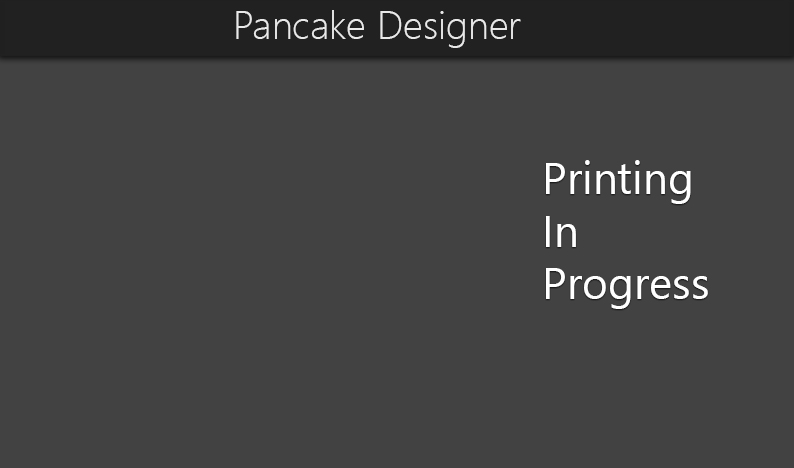
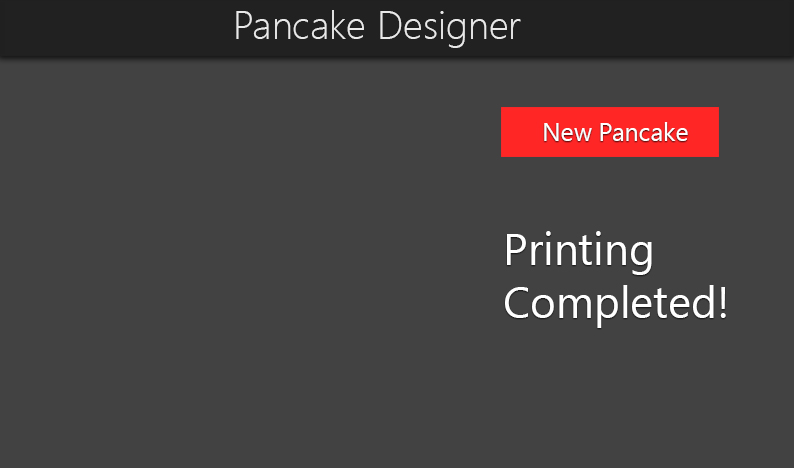
Cient

Changed region(s): [[0.6045, 0.2094, 0.9068, 0.4487], [0.6348, 0.4786, 0.937, 0.688]]

diff --git a/Client/comm/ProcessAndSend.py b/Client/comm/ProcessAndSend.py
@@ -2,10 +2,14 @@ import sys
 import serial
 import time
 
-data = sys.argv[1];
-#data = "231|261|1,232|261|1,233|261|1,234|261|1,238|266|1,238|267|1,239|269|1,240|270|1,241|270|1,244|273|1,245|274|1,245|275|1,247|275|1,247|276|1,248|276|1,249|276|1,250|278|1,251|278|1,253|278|1,254|279|1,257|281|1,259|281|1,261|281|1,262|282|1,263|282|1,264|283|1,267|283|0,268|284|0,269|284|0,271|284|0,272|284|0,275|285|0,277|285|0,278|286|0,278|287|0,280|287|0,281|288|0,283|288|0,284|288|0,284|289|0,286|290|0,287|290|0,291|290|0,292|291|0,293|291|0,293|292|0,277|315|1,283|315|1,284|315|1,285|315|1,286|315|0,287|314|0,290|314|0,291|314|0,292|313|0,293|313|0,294|313|0,295|313|0,297|312|0,298|312|0,299|312|0,300|312|0,302|311|0,304|310|0,305|310|0,306|310|0,307|310|0,308|310|0,310|310|0,311|310|0,SWITCH,231|261|1,232|261|1,233|261|1,234|261|1,"
+file = open('data.txt', 'r')
+data = file.read()
+file.close();
+
+#data = "30|26|1,30|27|1,30|27|1,30|28|1,30|28|1,30|29|1,30|29|1,30|30|1,30|30|1,30|31|1,30|31|1,30|32|1,30|32|1,30|33|1,30|34|1,30|34|1,30|34|1,30|34|1,30|35|1,30|35|1,30|36|1,30|37|1,30|37|1,30|37|1,30|38|1,30|38|1,30|38|1,30|38|1,30|39|1,30|40|1,30|40|1,30|41|0,30|41|0,30|42|0,30|42|0,30|42|0,30|42|0,30|43|0,30|43|0,31|44|0,31|45|0,31|45|0,31|46|0,31|46|0,31|46|0,31|47|0,31|47|0,31|47|0,31|47|0,31|48|0,31|48|0,68|26|1,68|27|1,68|27|1,68|28|1,68|28|1,68|29|1,68|29|1,68|29|1,68|30|1,68|30|1,68|30|1,68|31|1,68|31|1,68|32|1,69|33|1,69|34|1,69|35|1,69|36|1,69|36|1,69|37|1,69|37|1,69|38|1,68|39|1,68|39|1,68|40|1,68|41|1,68|41|1,68|41|1,68|42|1,68|42|0,68|42|0,68|42|0,68|43|0,68|43|0,68|43|0,68|44|0,68|44|0,68|44|0,68|45|0,68|45|0,68|45|0,68|46|0,68|46|0,68|46|0,68|47|0,68|47|0,68|47|0,68|47|0,68|48|0,25|61|1,25|61|1,25|61|1,25|62|1,25|62|1,25|62|1,25|63|1,25|63|1,25|63|1,26|64|1,26|65|1,26|65|1,27|65|1,27|66|1,27|67|1,28|68|1,28|68|1,29|68|1,29|69|1,30|69|1,30|69|1,32|70|1,33|71|1,33|71|1,34|71|1,34|72|1,34|72|1,35|72|1,35|72|1,36|72|1,36|72|1,36|73|1,36|73|1,36|73|1,37|73|1,38|74|1,40|74|1,42|75|1,44|75|1,45|75|1,45|75|1,46|76|1,46|76|1,48|76|1,48|76|1,49|76|1,49|76|1,49|76|1,50|77|1,51|77|1,52|77|1,53|77|1,54|77|1,55|78|1,56|78|1,56|78|1,57|78|1,58|78|1,59|78|1,60|78|1,60|78|1,60|78|1,61|78|1,61|78|1,62|78|1,64|78|1,65|78|1,65|77|1,66|77|1,67|77|1,69|77|1,69|76|1,69|76|1,70|76|1,70|76|1,71|75|1,71|75|0,71|75|0,72|75|0,72|74|0,72|74|0,73|73|0,74|72|0,74|71|0,75|71|0,75|71|0,76|69|0,78|67|0,78|66|0,78|66|0,78|66|0,78|65|0,79|64|0,79|64|0,79|64|0,79|63|0,SWITCH,99|10|1,99|13|1,99|15|1,99|16|1,99|18|1,99|18|1,98|20|1,98|20|1,98|21|1,98|22|1,98|23|1,98|25|1,98|27|1,98|29|1,98|30|1,98|31|1,98|31|1,98|31|1,98|32|1,98|33|1,98|34|1,98|36|1,98|36|1,98|37|1,98|38|1,98|39|1,98|40|1,99|41|1,99|42|1,99|43|1,99|45|1,99|47|1,99|49|1,99|54|1,99|55|1,99|56|1,99|56|1,99|57|1,99|61|1,99|63|1,99|64|1,99|65|1,99|66|1,99|66|1,99|66|1,99|67|1,99|68|1,99|69|1,99|70|1,99|74|1,99|75|1,99|76|1,99|76|1,99|77|1,98|78|1,97|81|1,97|82|1,97|82|1,97|82|1,96|82|1,96|83|1,95|83|1,95|83|1,95|83|1,94|83|1,94|83|1,93|83|1,93|83|1,92|83|1,91|82|1,90|82|1,86|80|1,85|79|1,84|78|1,83|77|1,82|76|1,82|75|1,81|75|1,81|74|1,81|74|1,80|73|1,80|70|1,80|65|1,79|63|1,79|61|1,79|59|1,79|58|1,79|57|1,79|55|1,79|55|1,79|54|1,79|53|1,78|52|1,78|52|1,78|51|1,78|51|1,77|48|1,77|47|1,77|44|1,77|43|1,77|41|1,77|40|1,77|39|1,77|38|1,77|36|1,77|35|1,77|33|1,77|32|1,77|30|1,76|30|1,75|28|1,75|27|1,74|25|1,74|23|1,74|22|1,73|20|1,73|19|1,73|18|1,73|15|1,73|13|1,73|12|1,73|11|1,72|11|1,72|11|1,72|11|1,70|10|1,64|8|1,63|7|1,63|7|1,63|7|1,62|7|1,62|7|1,60|7|1,60|7|1,59|8|1,58|8|1,58|8|1,56|9|1,56|9|1,56|10|1,55|10|1,55|10|1,55|11|1,54|12|1,53|12|1,53|13|1,52|14|1,52|15|1,52|16|1,52|17|1,51|18|1,51|19|1,50|21|1,49|23|1,48|25|1,48|25|1,48|25|1,47|26|1,47|28|1,44|33|1,43|34|1,42|36|1,42|37|1,42|38|1,41|39|1,41|40|1,41|42|1,40|43|1,40|44|1,39|46|1,39|46|1,39|49|1,39|50|1,39|51|1,39|52|1,39|53|1,38|53|1,38|53|1,38|53|1,38|54|1,38|56|1,37|60|1,37|62|1,37|63|1,37|64|1,36|66|1,36|66|1,36|68|1,35|69|1,35|71|1,34|73|1,34|74|1,34|75|1,34|75|1,34|75|1,33|75|1,32|76|1,30|76|1,28|76|1,26|76|1,24|76|1,23|75|1,22|74|1,19|72|1,17|70|1,14|67|1,13|65|1,13|62|1,12|50|0,12|46|0,12|45|0,11|44|0,11|43|0,11|42|0,12|39|0,12|38|0,12|34|0,12|32|0,13|31|0,13|30|0,13|30|0,13|30|0,13|29|0,13|28|0,15|26|0,17|23|0,17|23|0,19|22|0,30|26|1,30|27|1,30|27|1,30|28|1,30|28|1,30|29|1,30|29|1,30|30|1,30|30|1,30|31|1,30|31|1,30|32|1,30|32|1,30|33|1,30|34|1,30|34|1,30|34|1,30|34|1,30|35|1,30|35|1,30|36|1,30|37|1,30|37|1,30|37|1,30|38|1,30|38|1,30|38|1,30|38|1,30|39|1,30|40|1,30|40|1,30|41|0,30|41|0,30|42|0,30|42|0,30|42|0,30|42|0,30|43|0,30|43|0,31|44|0,31|45|0,31|45|0,31|46|0,31|46|0,31|46|0,31|47|0,31|47|0,31|47|0,31|47|0,31|48|0,31|48|0,68|26|1,68|27|1,68|27|1,68|28|1,68|28|1,68|29|1,68|29|1,68|29|1,68|30|1,68|30|1,68|30|1,68|31|1,68|31|1,68|32|1,69|33|1,69|34|1,69|35|1,69|36|1,69|36|1,69|37|1,69|37|1,69|38|1,68|39|1,68|39|1,68|40|1,68|41|1,68|41|1,68|41|1,68|42|1,68|42|0,68|42|0,68|42|0,68|43|0,68|43|0,68|43|0,68|44|0,68|44|0,68|44|0,68|45|0,68|45|0,68|45|0,68|46|0,68|46|0,68|46|0,68|47|0,68|47|0,68|47|0,68|47|0,68|48|0,25|61|1,25|61|1,25|61|1,25|62|1,25|62|1,25|62|1,25|63|1,25|63|1,25|63|1,26|64|1,26|65|1,26|65|1,27|65|1,27|66|1,27|67|1,28|68|1,28|68|1,29|68|1,29|69|1,30|69|1,30|69|1,32|70|1,33|71|1,33|71|1,34|71|1,34|72|1,34|72|1,35|72|1,35|72|1,36|72|1,36|72|1,36|73|1,36|73|1,36|73|1,37|73|1,38|74|1,40|74|1,42|75|1,44|75|1,45|75|1,45|75|1,46|76|1,46|76|1,48|76|1,48|76|1,49|76|1,49|76|1,49|76|1,50|77|1,51|77|1,52|77|1,53|77|1,54|77|1,55|78|1,56|78|1,56|78|1,57|78|1,58|78|1,59|78|1,60|78|1,60|78|1,60|78|1,61|78|1,61|78|1,62|78|1,64|78|1,65|78|1,65|77|1,66|77|1,67|77|1,69|77|1,69|76|1,69|76|1,70|76|1,70|76|1,71|75|1,71|75|0,71|75|0,72|75|0,72|74|0,72|74|0,73|73|0,74|72|0,74|71|0,75|71|0,75|71|0,76|69|0,78|67|0,78|66|0,78|66|0,78|66|0,78|65|0,79|64|0,79|64|0,79|64|0,79|63|0,SWITCH,99|10|1,99|13|1,99|15|1,99|16|1,99|18|1,99|18|1,98|20|1,98|20|1,98|21|1,98|22|1,98|23|1,98|25|1,98|27|1,98|29|1,98|30|1,98|31|1,98|31|1,98|31|1,98|32|1,98|33|1,98|34|1,98|36|1,98|36|1,98|37|1,98|38|1,98|39|1,98|40|1,99|41|1,99|42|1,99|43|1,99|45|1,99|47|1,99|49|1,99|54|1,99|55|1,99|56|1,99|56|1,99|57|1,99|61|1,99|63|1,99|64|1,99|65|1,99|66|1,99|66|1,99|66|1,99|67|1,99|68|1,99|69|1,99|70|1,99|74|1,99|75|1,99|76|1,99|76|1,99|77|1,98|78|1,97|81|1,97|82|1,97|82|1,97|82|1,96|82|1,96|83|1,95|83|1,95|83|1,95|83|1,94|83|1,94|83|1,93|83|1,93|83|1,92|83|1,91|82|1,90|82|1,86|80|1,85|79|1,84|78|1,83|77|1,82|76|1,82|75|1,81|75|1,81|74|1,81|74|1,80|73|1,80|70|1,80|65|1,79|63|1,79|61|1,79|59|1,79|58|1,79|57|1,79|55|1,79|55|1,79|54|1,79|53|1,78|52|1,78|52|1,78|51|1,78|51|1,77|48|1,77|47|1,77|44|1,77|43|1,77|41|1,77|40|1,77|39|1,77|38|1,77|36|1,77|35|1,77|33|1,77|32|1,77|30|1,76|30|1,75|28|1,75|27|1,74|25|1,74|23|1,74|22|1,73|20|1,73|19|1,73|18|1,73|15|1,73|13|1,73|12|1,73|11|1,72|11|1,72|11|1,72|11|1,70|10|1,64|8|1,63|7|1,63|7|1,63|7|1,62|7|1,62|7|1,60|7|1,60|7|1,59|8|1,58|8|1,58|8|1,56|9|1,56|9|1,56|10|1,55|10|1,55|10|1,55|11|1,54|12|1,53|12|1,53|13|1,52|14|1,52|15|1,52|16|1,52|17|1,51|18|1,51|19|1,50|21|1,49|23|1,48|25|1,48|25|1,48|25|1,47|26|1,47|28|1,44|33|1,43|34|1,42|36|1,42|37|1,42|38|1,41|39|1,41|40|1,41|42|1,40|43|1,40|44|1,39|46|1,39|46|1,39|49|1,39|50|1,39|51|1,39|52|1,39|53|1,38|53|1,38|53|1,38|53|1,38|54|1,38|56|1,37|60|1,37|62|1,37|63|1,37|64|1,36|66|1,36|66|1,36|68|1,35|69|1,35|71|1,34|73|1,34|74|1,34|75|1,34|75|1,34|75|1,33|75|1,32|76|1,30|76|1,28|76|1,26|76|1,24|76|1,23|75|1,22|74|1,19|72|1,17|70|1,14|67|1,13|65|1,13|62|1,12|50|0,12|46|0,12|45|0,11|44|0,11|43|0,11|42|0,12|39|0,12|38|0,12|34|0,12|32|0,13|31|0,13|30|0,13|30|0,13|30|0,13|29|0,13|28|0,15|26|0,17|23|0,17|23|0,19|22|0,"
+
 print("Opening serial connection with the Arduino")
-ser = serial.Serial('COM4', 9600, timeout=0)
+ser = serial.Serial('COM3', 9600, timeout=0)
 time.sleep(2)
 print("Now printing the first layer. Please wait...")
 splitData = data.split(",")
@@ -13,11 +17,13 @@ print(splitData)
 for item in splitData:
     ser.write(item)
     print(item)
-    time.sleep(0.5)
+    time.sleep(0.1)
     if item == "SWITCH":
         print("PAUSING FOR 30 SECONDS")
+        ser.write("0|0|0");
         time.sleep(30)
 
+ser.write("0|0|0");
 file = open("finish.f", "w")
 file.write("hello world in the new file\n")
 file.close()

diff --git a/Client/PancakePrinter.java b/Client/PancakePrinter.java
@@ -6,6 +6,7 @@ import java.awt.Cursor.*;
 import java.awt.image.*; 
 import java.util.*;
 import java.io.File;
+import java.io.PrintWriter;
 
 public class PancakePrinter implements ActionListener, MouseListener, MouseMotionListener{
  //////////////////////////////////
@@ -67,15 +68,22 @@ public class PancakePrinter implements ActionListener, MouseListener, MouseMotio
        for (String s : drawDataLight){
          dataString += s + ",";
        }
-       System.out.println(dataString);
+       dataString = dataString.substring(0, dataString.length() - 1);
+       //System.out.println(dataString);
+       mainPanel.printing = true;
+       mainPanel.plotX = -100;
+       mainPanel.plotY = -100;  // Move position off screen then reset
+       mainPanel.repaint();
+       mainPanel.repaint();
        try{
-         Process p = Runtime.getRuntime().exec("cmd.exe /c start python comm/ProcessAndSend.py " + dataString); // Use Python to comm
+         PrintWriter writer = new PrintWriter("data.txt", "UTF-8");
+         writer.println(dataString);
+         writer.close();
+         Process p = Runtime.getRuntime().exec("cmd.exe /c start python comm/ProcessAndSend.py "); // Use Python to comm
          System.out.println(dataString);
        }catch (Exception e){
          JOptionPane.showMessageDialog(mainWindow, "Error.");
        }
-       mainPanel.printing = true;
-       mainPanel.repaint();
        File varTmpDir = new File("finish.f");  // Check if its done by looking for a file. Then delete.
        boolean exists = varTmpDir.exists();
        while (exists == false){
@@ -99,9 +107,9 @@ public class PancakePrinter implements ActionListener, MouseListener, MouseMotio
      mainPanel.plotY = evt.getY();
      mainPanel.repaint(); // refresh the screen after plotting new points
      if (currentShade == 2){
-       drawDataDark.add((evt.getX() + "|" + evt.getY() + "|1"));
+       drawDataDark.add(((evt.getX()-30)*100/475 + "|" + (evt.getY() -70)*250/425 + "|1"));
      }else if (currentShade == 1){
-       drawDataLight.add((evt.getX() + "|" + evt.getY() + "|1"));
+       drawDataLight.add(((evt.getX()-30)*100/475 + "|" + (evt.getY()-70)*250/425 + "|1"));
      }else{
        JOptionPane.showMessageDialog(mainWindow, "Please select a shade first!");
        mainPanel.plotX = -100;
@@ -110,7 +118,7 @@ public class PancakePrinter implements ActionListener, MouseListener, MouseMotio
        mainPanel.repaint();
        System.out.println("No shade selected");
      }
-     System.out.println("mouse dragged " + evt.getX() + "x" + evt.getY());
+     System.out.println(((evt.getX()-30)*100/475 + "|" + (evt.getY()-70)*250/425 + "|1"));
    }
  }
 
